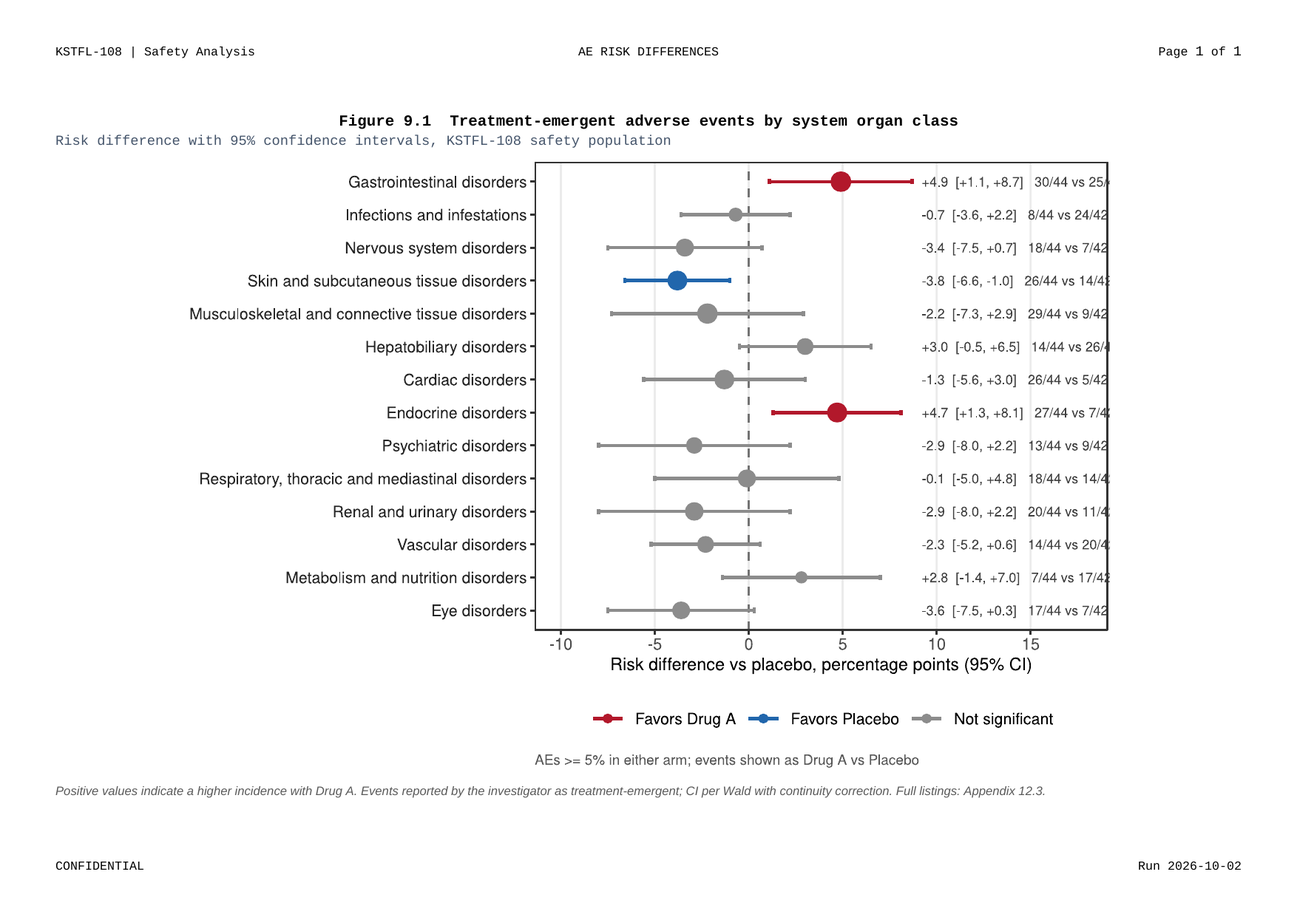
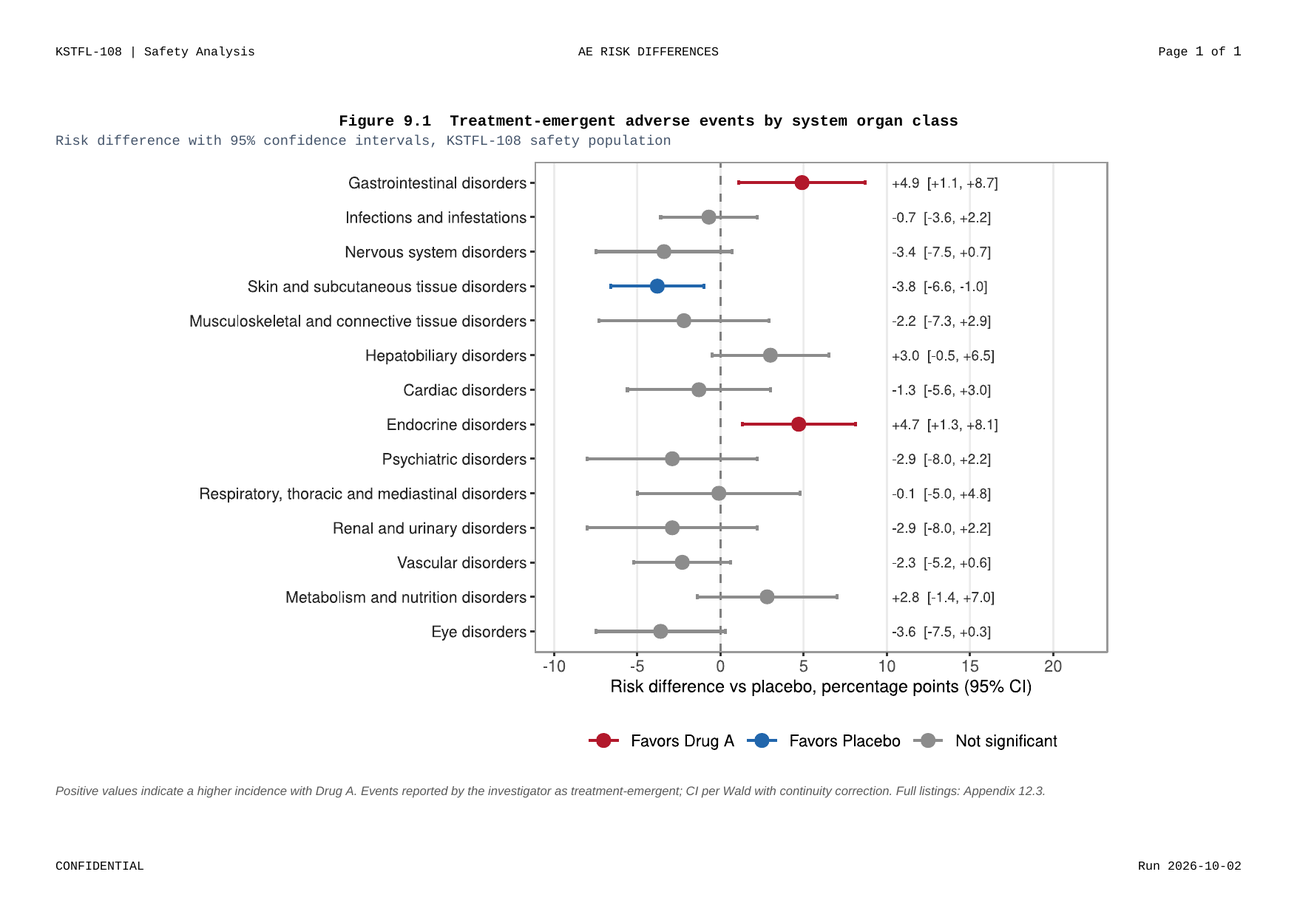
site: iris quick-start with rendered result + pitch-style walkthrough, human 'What else' copy, pipeline hook, compact code font, d3 forest redrawn (labels clear of panel border)

Changed region(s): [[0.1539, 0.1837, 0.862, 0.8574]]

diff --git a/docs/index.html b/docs/index.html
@@ -120,7 +120,10 @@ Clinical Tables, Figures, and Listings —<br>from R code to validated DOCX, in 
 <div class="section level2">
 <h2 id="what-the-output-looks-like">What the output looks like<a class="anchor" aria-label="anchor" href="#what-the-output-looks-like"></a>
 </h2>
-<p>Every page below was rendered by ksTFL itself from short, commented example programs. Click any page to open it full size.</p>
+<p>Five verbs stand between a data frame and a submission-ready document:</p>
+<pre><code>create_*()  -&gt;  define / add_* / compute_*  -&gt;  create_report()  -&gt;  write_doc()  -&gt;  .docx
+  specify            style &amp; compose            validate &amp; merge          render</code></pre>
+<p>No external tools, no Word macros, no “final_v7_reallyfinal.docx”. Every page below was rendered by ksTFL itself from short, commented example programs. Click any page to open it full size.</p>
 <div class="ksgallery">
 <a class="ksdemo" href="home/show-demography.png" target="_blank" rel="noopener"> <img src="home/show-demography.png" alt="Demography table with grouped treatment-arm headers"><figcaption>
 Demography table with grouped column headers for each treatment arm
@@ -145,50 +148,58 @@ A concentration-time profile and its parameter table, composed as one page of a 
 <div class="section level2">
 <h2 id="quick-start">Quick start<a class="anchor" aria-label="anchor" href="#quick-start"></a>
 </h2>
-<div class="sourceCode" id="cb1"><pre class="downlit sourceCode r">
+<p>This script is all it takes — and yes, <code>iris</code> really is enough:</p>
+<div class="sourceCode" id="cb2"><pre class="downlit sourceCode r">
 <code class="sourceCode R"><span><span class="kw"><a href="https://rdrr.io/r/base/library.html" class="external-link">library</a></span><span class="op">(</span><span class="va"><a href="https://crow16384.github.io/ksTFL/">ksTFL</a></span><span class="op">)</span></span>
 <span></span>
-<span><span class="co"># 1. Initialize a table specification</span></span>
-<span><span class="va">spec</span> <span class="op">&lt;-</span> <span class="fu"><a href="reference/create_table.html">create_table</a></span><span class="op">(</span><span class="va">mtcars</span>, cols <span class="op">=</span> <span class="fu"><a href="https://rdrr.io/r/base/c.html" class="external-link">c</a></span><span class="op">(</span><span class="va">cyl</span>, <span class="va">mpg</span>, <span class="va">hp</span>, <span class="va">wt</span><span class="op">)</span><span class="op">)</span></span>
+<span><span class="co"># any messy source becomes one tidy summary frame - your usual R, nothing exotic</span></span>
+<span><span class="va">summary</span> <span class="op">&lt;-</span> <span class="fu"><a href="https://rdrr.io/r/base/do.call.html" class="external-link">do.call</a></span><span class="op">(</span><span class="va">rbind</span>, <span class="fu"><a href="https://rdrr.io/r/base/lapply.html" class="external-link">lapply</a></span><span class="op">(</span><span class="fu"><a href="https://rdrr.io/r/base/split.html" class="external-link">split</a></span><span class="op">(</span><span class="va">iris</span>, <span class="va">iris</span><span class="op">$</span><span class="va">Species</span><span class="op">)</span>, <span class="kw">function</span><span class="op">(</span><span class="va">g</span><span class="op">)</span></span>
+<span>  <span class="fu"><a href="https://rdrr.io/r/base/data.frame.html" class="external-link">data.frame</a></span><span class="op">(</span>Species <span class="op">=</span> <span class="va">g</span><span class="op">$</span><span class="va">Species</span><span class="op">[</span><span class="fl">1</span><span class="op">]</span>, N <span class="op">=</span> <span class="fu"><a href="https://rdrr.io/r/base/nrow.html" class="external-link">nrow</a></span><span class="op">(</span><span class="va">g</span><span class="op">)</span>,</span>
+<span>             SL_mean <span class="op">=</span> <span class="fu"><a href="https://rdrr.io/r/base/mean.html" class="external-link">mean</a></span><span class="op">(</span><span class="va">g</span><span class="op">$</span><span class="va">Sepal.Length</span><span class="op">)</span>, SL_sd <span class="op">=</span> <span class="fu"><a href="https://rdrr.io/r/stats/sd.html" class="external-link">sd</a></span><span class="op">(</span><span class="va">g</span><span class="op">$</span><span class="va">Sepal.Length</span><span class="op">)</span>,</span>
+<span>             PL_mean <span class="op">=</span> <span class="fu"><a href="https://rdrr.io/r/base/mean.html" class="external-link">mean</a></span><span class="op">(</span><span class="va">g</span><span class="op">$</span><span class="va">Petal.Length</span><span class="op">)</span>, PL_sd <span class="op">=</span> <span class="fu"><a href="https://rdrr.io/r/stats/sd.html" class="external-link">sd</a></span><span class="op">(</span><span class="va">g</span><span class="op">$</span><span class="va">Petal.Length</span><span class="op">)</span><span class="op">)</span><span class="op">)</span><span class="op">)</span></span>
 <span></span>
-<span><span class="co"># 2. Add document content</span></span>
-<span><span class="va">spec</span> <span class="op">&lt;-</span> <span class="va">spec</span> <span class="op">|&gt;</span></span>
-<span>  <span class="fu"><a href="reference/add_title.html">add_title</a></span><span class="op">(</span><span class="st">"Motor Trend Car Road Tests"</span>, styleRef <span class="op">=</span> <span class="st">"i"</span><span class="op">)</span> <span class="op">|&gt;</span></span>
-<span>  <span class="fu"><a href="reference/add_subtitle.html">add_subtitle</a></span><span class="op">(</span><span class="st">"Number of Cylinders: #ByGroup1"</span>, styleRef <span class="op">=</span> <span class="fu"><a href="reference/f_combine.html">f_combine</a></span><span class="op">(</span><span class="st">"fc_blue"</span>, <span class="st">"tw_50"</span><span class="op">)</span><span class="op">)</span> <span class="op">|&gt;</span></span>
-<span>  <span class="fu"><a href="reference/add_footnote.html">add_footnote</a></span><span class="op">(</span><span class="st">"Source: 1974 Motor Trend US magazine"</span><span class="op">)</span></span>
+<span><span class="va">spec</span> <span class="op">&lt;-</span> <span class="fu"><a href="reference/create_table.html">create_table</a></span><span class="op">(</span><span class="va">summary</span><span class="op">)</span> <span class="op">|&gt;</span></span>
+<span>  <span class="fu"><a href="reference/add_span_header.html">add_span_header</a></span><span class="op">(</span><span class="fu"><a href="https://rdrr.io/r/base/c.html" class="external-link">c</a></span><span class="op">(</span><span class="va">SL_mean</span>, <span class="va">SL_sd</span><span class="op">)</span>, <span class="st">"Sepal"</span>, stubOrder <span class="op">=</span> <span class="fl">1</span><span class="op">)</span> <span class="op">|&gt;</span></span>
+<span>  <span class="fu"><a href="reference/add_span_header.html">add_span_header</a></span><span class="op">(</span><span class="fu"><a href="https://rdrr.io/r/base/c.html" class="external-link">c</a></span><span class="op">(</span><span class="va">PL_mean</span>, <span class="va">PL_sd</span><span class="op">)</span>, <span class="st">"Petal"</span>, stubOrder <span class="op">=</span> <span class="fl">1</span><span class="op">)</span> <span class="op">|&gt;</span></span>
+<span>  <span class="fu"><a href="reference/define_cols.html">define_cols</a></span><span class="op">(</span><span class="fu"><a href="https://rdrr.io/r/base/c.html" class="external-link">c</a></span><span class="op">(</span><span class="va">SL_mean</span>, <span class="va">PL_mean</span><span class="op">)</span>,</span>
+<span>              label <span class="op">=</span> <span class="fu"><a href="https://rdrr.io/r/base/c.html" class="external-link">c</a></span><span class="op">(</span><span class="st">"mean"</span>, <span class="st">"mean"</span><span class="op">)</span>, valueStyleRef <span class="op">=</span> <span class="st">"ar"</span>, format <span class="op">=</span> <span class="st">"%.2f"</span><span class="op">)</span> <span class="op">|&gt;</span></span>
+<span>  <span class="fu"><a href="reference/compute_cols.html">compute_cols</a></span><span class="op">(</span><span class="va">PL_mean</span> <span class="op">&lt;</span> <span class="fl">2.5</span>,</span>
+<span>               <span class="fu"><a href="reference/c_style.html">c_style</a></span><span class="op">(</span><span class="fu"><a href="https://rdrr.io/r/base/c.html" class="external-link">c</a></span><span class="op">(</span><span class="va">PL_mean</span>, <span class="va">PL_sd</span><span class="op">)</span>, styleRef <span class="op">=</span> <span class="fu"><a href="reference/f_combine.html">f_combine</a></span><span class="op">(</span><span class="st">"fc_green"</span>, <span class="st">"b"</span><span class="op">)</span><span class="op">)</span><span class="op">)</span> <span class="op">|&gt;</span></span>
+<span>  <span class="fu"><a href="reference/add_title.html">add_title</a></span><span class="op">(</span><span class="st">"Iris, Measured Flower by Flower"</span>, styleRef <span class="op">=</span> <span class="st">"b"</span><span class="op">)</span> <span class="op">|&gt;</span></span>
+<span>  <span class="fu"><a href="reference/add_footnote.html">add_footnote</a></span><span class="op">(</span><span class="st">"Fisher (1936). Green: petals so distinct the species name themselves."</span><span class="op">)</span> <span class="op">|&gt;</span></span>
+<span>  <span class="fu"><a href="reference/set_document.html">set_document</a></span><span class="op">(</span>contentWidth <span class="op">=</span> <span class="st">"70%"</span><span class="op">)</span></span>
 <span></span>
-<span><span class="co"># 3. Define column properties</span></span>
-<span><span class="va">spec</span> <span class="op">&lt;-</span> <span class="va">spec</span> <span class="op">|&gt;</span></span>
-<span>  <span class="fu"><a href="reference/define_cols.html">define_cols</a></span><span class="op">(</span><span class="fu"><a href="https://rdrr.io/r/base/c.html" class="external-link">c</a></span><span class="op">(</span><span class="va">mpg</span>, <span class="va">hp</span>, <span class="va">wt</span><span class="op">)</span>,</span>
-<span>              label <span class="op">=</span> <span class="fu"><a href="https://rdrr.io/r/base/c.html" class="external-link">c</a></span><span class="op">(</span><span class="st">"Miles/(US) gallon"</span>, <span class="st">"Horsepower"</span>, <span class="st">"Weight (1000 lbs)"</span><span class="op">)</span>,</span>
-<span>              valueStyleRef <span class="op">=</span> <span class="st">"ac"</span><span class="op">)</span> <span class="op">|&gt;</span></span>
-<span>  <span class="fu"><a href="reference/define_cols.html">define_cols</a></span><span class="op">(</span><span class="va">cyl</span>, isGrouping <span class="op">=</span> <span class="cn">TRUE</span>, isVisible <span class="op">=</span> <span class="cn">FALSE</span><span class="op">)</span></span>
-<span></span>
-<span><span class="co"># 4. Conditional row styling: red-highlight powerful engines</span></span>
-<span><span class="va">spec</span> <span class="op">&lt;-</span> <span class="va">spec</span> <span class="op">|&gt;</span></span>
-<span>  <span class="fu"><a href="reference/compute_cols.html">compute_cols</a></span><span class="op">(</span><span class="va">hp</span> <span class="op">&gt;</span> <span class="fl">200</span>, <span class="fu"><a href="reference/c_style.html">c_style</a></span><span class="op">(</span><span class="va">hp</span>, styleRef <span class="op">=</span> <span class="st">"fc_red"</span><span class="op">)</span><span class="op">)</span></span>
-<span></span>
-<span><span class="co"># 5. Assemble and render to DOCX</span></span>
-<span><span class="va">report</span> <span class="op">&lt;-</span> <span class="fu"><a href="reference/create_report.html">create_report</a></span><span class="op">(</span><span class="va">spec</span><span class="op">)</span></span>
-<span><span class="fu"><a href="reference/write_doc.html">write_doc</a></span><span class="op">(</span><span class="va">report</span>, name <span class="op">=</span> <span class="st">"demo"</span>, outDir <span class="op">=</span> <span class="fu"><a href="https://rdrr.io/r/base/tempfile.html" class="external-link">tempdir</a></span><span class="op">(</span><span class="op">)</span><span class="op">)</span></span></code></pre></div>
-<p>The result is a print-ready Word document: grouped by cylinder count, right-aligned numbers, an italic title, and red horsepowers — no post-editing in Word.</p>
+<span><span class="fu"><a href="reference/write_doc.html">write_doc</a></span><span class="op">(</span><span class="fu"><a href="reference/create_report.html">create_report</a></span><span class="op">(</span><span class="va">spec</span><span class="op">)</span>, name <span class="op">=</span> <span class="st">"iris_summary"</span><span class="op">)</span></span></code></pre></div>
+<p><a class="ksdemo" href="home/quickstart-iris.png" target="_blank" rel="noopener" style="max-width: 720px; display: block; margin: 1.2rem auto 0.6rem;"> <img src="home/quickstart-iris.png" alt="Rendered iris summary table"></a></p>
+<p>That’s a print-ready Word document — but look at what the lines actually <em>did</em>:</p>
+<ul>
+<li>
+<strong>Two lines grouped the columns</strong> under <code>Sepal</code> and <code>Petal</code> banners. Real reports live on this kind of hierarchy — you just declared it, no merged-cell surgery in Word.</li>
+<li>
+<strong>One line set the number style</strong> for both <code>mean</code> columns at once: right-aligned, exactly two decimals. It applies to whatever those columns become later; the format rides with the definition, not the data.</li>
+<li>
+<strong>One line painted setosa’s petals green</strong> — <code>compute_cols(condition, action)</code> is a rule, not a manual edit: <em>any</em> row where mean petal length falls below 2.5 gets the style, now and in every future run of this pipeline. The rule reads like a sentence because ksTFL evaluates it like one.</li>
+<li>
+<strong>The document framed itself</strong>: title, footnote, a 70%-width body — all part of the same object; <code><a href="reference/write_doc.html">write_doc()</a></code> drops the <code>.docx</code> into your working directory and that’s the end of your involvement.</li>
+</ul>
+<p>Run the script, open the file, compare it with the screenshot — that gap between “analysis finished” and “report ready” you’ve been living with? Just closed.</p>
 </div>
 <div class="section level2">
 <h2 id="installation">Installation<a class="anchor" aria-label="anchor" href="#installation"></a>
 </h2>
 <p>ksTFL ships <strong>pre-compiled binaries</strong> for R 4.5 and R 4.6 on Windows, Ubuntu/Debian, Fedora/RHEL, and macOS (ARM) — no compilers or system libraries needed for most users.</p>
 <p>The simplest method, works on every platform:</p>
-<div class="sourceCode" id="cb2"><pre class="downlit sourceCode r">
+<div class="sourceCode" id="cb3"><pre class="downlit sourceCode r">
 <code class="sourceCode R"><span><span class="fu"><a href="https://rdrr.io/r/utils/install.packages.html" class="external-link">install.packages</a></span><span class="op">(</span><span class="st">"ksTFL"</span>,</span>
 <span>  repos <span class="op">=</span> <span class="fu"><a href="https://rdrr.io/r/base/c.html" class="external-link">c</a></span><span class="op">(</span><span class="st">"https://crow16384.r-universe.dev"</span>, <span class="st">"https://cloud.r-project.org"</span><span class="op">)</span><span class="op">)</span></span></code></pre></div>
 <p>Windows binaries are also available directly:</p>
-<div class="sourceCode" id="cb3"><pre class="downlit sourceCode r">
+<div class="sourceCode" id="cb4"><pre class="downlit sourceCode r">
 <code class="sourceCode R"><span><span class="fu"><a href="https://rdrr.io/r/utils/install.packages.html" class="external-link">install.packages</a></span><span class="op">(</span><span class="st">"ksTFL"</span>,</span>
 <span>  repos <span class="op">=</span> <span class="st">"https://crow16384.github.io/ksTFL-release"</span>,</span>
 <span>  type  <span class="op">=</span> <span class="st">"binary"</span><span class="op">)</span></span></code></pre></div>
 <p>Or download finished packages (<code>.zip</code>, <code>.tar.gz</code>, <code>.tgz</code>) from the <a href="https://github.com/crow16384/ksTFL-release/releases" class="external-link">release repository</a> and install with <code>install.packages(file, repos = NULL)</code>.</p>
 <p>Building from source requires a C++20 compiler and R development tools (Rtools on Windows, Xcode Command Line Tools on macOS, <code>build-essential</code> on Linux):</p>
-<div class="sourceCode" id="cb4"><pre class="downlit sourceCode r">
+<div class="sourceCode" id="cb5"><pre class="downlit sourceCode r">
 <code class="sourceCode R"><span><span class="fu">remotes</span><span class="fu">::</span><span class="fu">install_github</span><span class="op">(</span><span class="st">"crow16384/ksTFL"</span><span class="op">)</span></span></code></pre></div>
 </div>
 <div class="section level2">
@@ -196,17 +207,19 @@ A concentration-time profile and its parameter table, composed as one page of a 
 </h2>
 <ul>
 <li>
-<strong>Templates</strong> — bundled corporate layouts (<code>Navy_Pro</code>, <code>Carbon_Dark</code>, <code>Listings</code>, …); switch one option and the whole document family changes its look. Your own JSON template can live next to the report and travel with it.</li>
+<strong>One look for the whole company.</strong> Corporate layouts come built in — pick a template and every table, figure and listing in the run instantly wears the same face: same fonts, same margins, same navy header. Hand a client a submission where nothing drifts from page to page.</li>
 <li>
-<strong>Font management</strong> — the package finds fonts installed on your system and falls back to metric-compatible open-source alternatives (Liberation family) when a proprietary one is missing, so a report paginates the same on any machine.</li>
+<strong>It writes around your missing fonts.</strong> The package reads the fonts on your machine and quietly substitutes a metric-compatible open-source one when a proprietary font (Arial, Times New Roman, …) isn’t there. The report lays out the same whether you ran it on your laptop or on a Linux build server.</li>
 <li>
-<strong>Replay</strong> — <code><a href="reference/save_report.html">save_report()</a></code> keeps a specification bundle; <code><a href="reference/replay_report.html">replay_report()</a></code> rebuilds the exact DOCX on another machine, later, without the original analysis session. Ideal for validation and QA.</li>
+<strong>A report that re-builds itself.</strong> Every output saves its specification, so you can regenerate the <em>exact</em> same Word document months later, on another machine, without touching the original analysis. Auditors love this; so do you, at 2 a.m. before a submission.</li>
 <li>
-<strong>Table of contents</strong> — one option prepends a clickable ToC page to a report.</li>
+<strong>Highlight what matters, by rule.</strong> Color a cell red when a value crosses a threshold, bold the first row of every group, drop a section header where the category changes — described once, applied forever, never by hand in Word.</li>
 <li>
-<strong>RStudio add-ins</strong> — a template editor and a style picker, so layout work does not require memorizing option names.</li>
+<strong>Rich text inside cells.</strong> Bold, italic, superscripts, subscripts and line breaks right in your values and titles (<code>H&lt;sub&gt;2&lt;/sub&gt;O</code>, <code>p&lt;0.05&lt;sup&gt;*&lt;/sup&gt;</code>), the way the final document needs them.</li>
 <li>
-<strong>Multilingual</strong> — any Unicode text: Cyrillic, CJK, and Greek letters share the same page with ordinary cell values.</li>
+<strong>Point and click, if you like.</strong> RStudio add-ins give you a template editor and a style picker, so you can compose layouts visually instead of memorizing option names.</li>
+<li>
+<strong>Any language, all at once.</strong> Cyrillic, CJK, Greek letters and ordinary text share a page without turning into boxes.</li>
 </ul>
 </div>
 <div class="section level2">

diff --git a/docs/extra.css b/docs/extra.css
@@ -40,6 +40,15 @@ code {
     font-variant-ligatures: none;
 }
 
+/* code blocks: compact across the whole site (anchored + code element, because
+   pkgdown/bslib set pre/code font-size with id-level specificity) */
+main#main pre,
+main#main pre code,
+div.sourceCode pre,
+div.sourceCode pre code {
+    font-size: 0.82rem;
+}
+
 /* ── Document identity: serif headings + numbered sections ─
  * Articles read like a report: H2 gets "n.", H3 gets "n.m" —
  * via CSS counters, so nothing in the vignette sources changes. */

diff --git a/pkgdown/extra.css b/pkgdown/extra.css
@@ -40,6 +40,15 @@ code {
     font-variant-ligatures: none;
 }
 
+/* code blocks: compact across the whole site (anchored + code element, because
+   pkgdown/bslib set pre/code font-size with id-level specificity) */
+main#main pre,
+main#main pre code,
+div.sourceCode pre,
+div.sourceCode pre code {
+    font-size: 0.82rem;
+}
+
 /* ── Document identity: serif headings + numbered sections ─
  * Articles read like a report: H2 gets "n.", H3 gets "n.m" —
  * via CSS counters, so nothing in the vignette sources changes. */

diff --git a/pkgdown/index.md b/pkgdown/index.md
@@ -30,8 +30,16 @@ Under the hood, a built-in **rendering engine** with text shaping converts decla
 
 ## What the output looks like
 
-Every page below was rendered by ksTFL itself from short, commented example
-programs. Click any page to open it full size.
+Five verbs stand between a data frame and a submission-ready document:
+
+```
+create_*()  ->  define / add_* / compute_*  ->  create_report()  ->  write_doc()  ->  .docx
+  specify            style & compose            validate & merge          render
+```
+
+No external tools, no Word macros, no "final_v7_reallyfinal.docx". Every page below
+was rendered by ksTFL itself from short, commented example programs.
+Click any page to open it full size.
 
 <div class="ksgallery">
 
@@ -69,36 +77,53 @@ programs. Click any page to open it full size.
 
 ## Quick start
 
+This script is all it takes — and yes, `iris` really is enough:
+
 ```r
 library(ksTFL)
 
-# 1. Initialize a table specification
-spec <- create_table(mtcars, cols = c(cyl, mpg, hp, wt))
+# any messy source becomes one tidy summary frame - your usual R, nothing exotic
+summary <- do.call(rbind, lapply(split(iris, iris$Species), function(g)
+  data.frame(Species = g$Species[1], N = nrow(g),
+             SL_mean = mean(g$Sepal.Length), SL_sd = sd(g$Sepal.Length),
+             PL_mean = mean(g$Petal.Length), PL_sd = sd(g$Petal.Length))))
 
-# 2. Add document content
-spec <- spec |>
-  add_title("Motor Trend Car Road Tests", styleRef = "i") |>
-  add_subtitle("Number of Cylinders: #ByGroup1", styleRef = f_combine("fc_blue", "tw_50")) |>
-  add_footnote("Source: 1974 Motor Trend US magazine")
+spec <- create_table(summary) |>
+  add_span_header(c(SL_mean, SL_sd), "Sepal", stubOrder = 1) |>
+  add_span_header(c(PL_mean, PL_sd), "Petal", stubOrder = 1) |>
+  define_cols(c(SL_mean, PL_mean),
+              label = c("mean", "mean"), valueStyleRef = "ar", format = "%.2f") |>
+  compute_cols(PL_mean < 2.5,
+               c_style(c(PL_mean, PL_sd), styleRef = f_combine("fc_green", "b"))) |>
+  add_title("Iris, Measured Flower by Flower", styleRef = "b") |>
+  add_footnote("Fisher (1936). Green: petals so distinct the species name themselves.") |>
+  set_document(contentWidth = "70%")
 
-# 3. Define column properties
-spec <- spec |>
-  define_cols(c(mpg, hp, wt),
-              label = c("Miles/(US) gallon", "Horsepower", "Weight (1000 lbs)"),
-              valueStyleRef = "ac") |>
-  define_cols(cyl, isGrouping = TRUE, isVisible = FALSE)
-
-# 4. Conditional row styling: red-highlight powerful engines
-spec <- spec |>
-  compute_cols(hp > 200, c_style(hp, styleRef = "fc_red"))
-
-# 5. Assemble and render to DOCX
-report <- create_report(spec)
-write_doc(report, name = "demo", outDir = tempdir())
+write_doc(create_report(spec), name = "iris_summary")
 ```
 
-The result is a print-ready Word document: grouped by cylinder count, right-aligned
-numbers, an italic title, and red horsepowers — no post-editing in Word.
+<a class="ksdemo" href="home/quickstart-iris.png" target="_blank" rel="noopener"
+   style="max-width: 720px; display: block; margin: 1.2rem auto 0.6rem;">
+  <img src="home/quickstart-iris.png" alt="Rendered iris summary table" />
+</a>
+
+That's a print-ready Word document — but look at what the lines actually *did*:
+
+- **Two lines grouped the columns** under `Sepal` and `Petal` banners. Real reports
+  live on this kind of hierarchy — you just declared it, no merged-cell surgery in Word.
+- **One line set the number style** for both `mean` columns at once: right-aligned,
+  exactly two decimals. It applies to whatever those columns become later; the format
+  rides with the definition, not the data.
+- **One line painted setosa's petals green** — `compute_cols(condition, action)` is a
+  rule, not a manual edit: *any* row where mean petal length falls below 2.5 gets the
+  style, now and in every future run of this pipeline. The rule reads like a sentence
+  because ksTFL evaluates it like one.
+- **The document framed itself**: title, footnote, a 70%-width body — all part of the
+  same object; `write_doc()` drops the `.docx` into your working directory and that's
+  the end of your involvement.
+
+Run the script, open the file, compare it with the screenshot — that gap between
+"analysis finished" and "report ready" you've been living with? Just closed.
 
 ## Installation
 
@@ -133,20 +158,29 @@ remotes::install_github("crow16384/ksTFL")
 
 ## What else it can do
 
-- **Templates** — bundled corporate layouts (`Navy_Pro`, `Carbon_Dark`, `Listings`, …);
-  switch one option and the whole document family changes its look. Your own JSON
-  template can live next to the report and travel with it.
-- **Font management** — the package finds fonts installed on your system and falls
-  back to metric-compatible open-source alternatives (Liberation family) when a
-  proprietary one is missing, so a report paginates the same on any machine.
-- **Replay** — `save_report()` keeps a specification bundle; `replay_report()`
-  rebuilds the exact DOCX on another machine, later, without the original analysis
-  session. Ideal for validation and QA.
-- **Table of contents** — one option prepends a clickable ToC page to a report.
-- **RStudio add-ins** — a template editor and a style picker, so layout work does
-  not require memorizing option names.
-- **Multilingual** — any Unicode text: Cyrillic, CJK, and Greek letters share the
-  same page with ordinary cell values.
+- **One look for the whole company.** Corporate layouts come built in — pick a
+  template and every table, figure and listing in the run instantly wears the same
+  face: same fonts, same margins, same navy header. Hand a client a submission where
+  nothing drifts from page to page.
+- **It writes around your missing fonts.** The package reads the fonts on your
+  machine and quietly substitutes a metric-compatible open-source one when a
+  proprietary font (Arial, Times New Roman, …) isn't there. The report lays out the
+  same whether you ran it on your laptop or on a Linux build server.
+- **A report that re-builds itself.** Every output saves its specification, so you
+  can regenerate the *exact* same Word document months later, on another machine,
+  without touching the original analysis. Auditors love this; so do you, at 2 a.m.
+  before a submission.
+- **Highlight what matters, by rule.** Color a cell red when a value crosses a
+  threshold, bold the first row of every group, drop a section header where the
+  category changes — described once, applied forever, never by hand in Word.
+- **Rich text inside cells.** Bold, italic, superscripts, subscripts and line breaks
+  right in your values and titles (`H<sub>2</sub>O`, `p<0.05<sup>*</sup>`), the way
+  the final document needs them.
+- **Point and click, if you like.** RStudio add-ins give you a template editor and a
+  style picker, so you can compose layouts visually instead of memorizing option
+  names.
+- **Any language, all at once.** Cyrillic, CJK, Greek letters and ordinary text share
+  a page without turning into boxes.
 
 ## Documentation & resources
 
